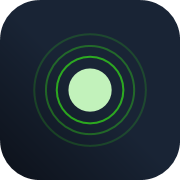
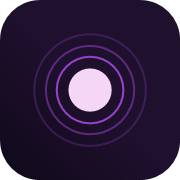
Add files via upload

diff --git a/styles.css b/styles.css
@@ -1,8 +1,157 @@
 @import url('https://fonts.googleapis.com/css2?family=Montserrat:wght@400;500;600;700;800&display=swap');
-:root{font-family:Montserrat,-apple-system,BlinkMacSystemFont,"Segoe UI",sans-serif;color-scheme:dark;--bg:#090b11;--surface:rgba(19,23,34,.89);--surface2:#151a26;--text:#f3f5fa;--muted:#9aa3b5;--line:rgba(255,255,255,.085);--green:#39ff14;--yellow:#ffea19;--red:#ff073a;--blue:#47c8ff;--status:var(--green);--status-rgb:57,255,20;--green-row:#153c2d;--yellow-row:#493f1d;--red-row:#451d29;--shadow:0 18px 48px rgba(0,0,0,.3)}
-*{box-sizing:border-box}html{min-height:100%;background:var(--bg);background-image:radial-gradient(ellipse at 85% 4%,rgba(92,38,118,.24),transparent 40%),radial-gradient(ellipse at 0 50%,rgba(0,116,164,.12),transparent 42%);background-attachment:fixed}body{margin:0;min-height:100vh;padding:calc(env(safe-area-inset-top) + 14px) 14px calc(env(safe-area-inset-bottom) + 24px);color:var(--text);transition:background .25s,color .25s}.app-shell{width:min(100%,560px);margin:auto}.topbar{display:flex;align-items:center;gap:12px;margin:4px 2px 18px}.brand-mark{display:grid;place-items:center;width:42px;height:42px;border:1px solid rgba(71,200,255,.38);border-radius:14px;background:linear-gradient(145deg,rgba(71,200,255,.2),rgba(71,200,255,.03));color:var(--blue);font-size:24px;box-shadow:0 0 22px rgba(71,200,255,.12)}.brand-copy{flex:1}.eyebrow{display:block;font-size:9px;font-weight:700;letter-spacing:.15em;color:var(--muted)}h1{font-size:20px;line-height:1.2;margin:4px 0 0;font-weight:800;letter-spacing:-.03em}.icon-button{width:42px;height:42px;border:1px solid var(--line);border-radius:14px;background:var(--surface);color:var(--text);font-family:inherit;font-size:26px;line-height:1;cursor:pointer}.icon-button:active{transform:scale(.95)}.panel{border:1px solid var(--line);border-radius:22px;background:var(--surface);box-shadow:var(--shadow);backdrop-filter:blur(18px);-webkit-backdrop-filter:blur(18px)}.queue-card{display:flex;justify-content:space-between;align-items:center;padding:15px 16px;margin-bottom:12px}.queue-help{margin:5px 0 0;color:var(--muted);font-size:11px}.select-wrap{position:relative;min-width:132px}.select-wrap select{width:100%;appearance:none;border:1px solid rgba(71,200,255,.35);border-radius:13px;padding:12px 34px 12px 13px;background:#18202d;color:var(--text);font:700 14px Montserrat,sans-serif;outline:none}.select-chevron{position:absolute;right:12px;top:50%;transform:translateY(-60%);color:var(--blue);pointer-events:none}.status-card{position:relative;overflow:hidden;padding:17px 18px 15px;text-align:center;min-height:360px}.status-card:before{content:"";position:absolute;inset:-80px -30px auto;height:260px;pointer-events:none;background:radial-gradient(ellipse,rgba(var(--status-rgb),.13),transparent 67%);transition:background .4s}.status-topline{position:relative;z-index:1;display:flex;justify-content:space-between;align-items:center}.status-pill,.live-badge{display:inline-flex;align-items:center;gap:7px;border:1px solid var(--line);border-radius:99px;padding:7px 10px;font-size:9px;letter-spacing:.07em;font-weight:800}.status-pill{color:var(--status);border-color:rgba(var(--status-rgb),.27);background:rgba(var(--status-rgb),.08)}.status-pill i,.live-badge i{width:7px;height:7px;border-radius:50%;background:currentColor;box-shadow:0 0 10px currentColor}.live-badge{color:var(--muted);font-size:8px}.live-badge i{color:var(--green);animation:liveBlink 1.5s infinite}.status-orb{position:relative;width:158px;height:158px;margin:7px auto 0;display:grid;place-items:center;isolation:isolate}.status-orb:before,.status-orb:after{content:"";position:absolute;inset:20px;border:1px solid rgba(var(--status-rgb),.3);border-radius:50%;box-shadow:0 0 28px rgba(var(--status-rgb),.16),inset 0 0 24px rgba(var(--status-rgb),.12);animation:orbPulse 2.6s ease-in-out infinite}.status-orb:after{inset:35px;border-color:rgba(var(--status-rgb),.48);animation-delay:.35s}.orb-core{width:45px;height:45px;border-radius:50%;background:radial-gradient(circle at 34% 28%,#fff 0,rgba(var(--status-rgb),.95) 12%,rgba(var(--status-rgb),.55) 42%,rgba(var(--status-rgb),.08) 72%,transparent 74%);filter:drop-shadow(0 0 8px rgba(var(--status-rgb),.95)) drop-shadow(0 0 25px rgba(var(--status-rgb),.65));animation:corePulse 1.9s ease-in-out infinite}.orbit{position:absolute;border:1px solid rgba(var(--status-rgb),.42);border-radius:50%;transform:rotate(-24deg);animation:orbit 7s linear infinite}.orbit-one{width:134px;height:78px}.orbit-two{width:128px;height:60px;transform:rotate(48deg);animation-duration:9s}.orbit-three{width:91px;height:140px;transform:rotate(74deg);animation-duration:12s}.status-text{position:relative;z-index:1;margin:0 auto 10px;font-size:20px;line-height:1.2;font-weight:800;letter-spacing:.01em;text-shadow:0 2px 14px rgba(var(--status-rgb),.2)}.now-line{display:flex;justify-content:center;align-items:center;gap:11px;font-size:12px;font-weight:600;color:var(--muted)}.now-line b{width:3px;height:3px;background:var(--blue);border-radius:50%;box-shadow:0 0 7px var(--blue)}.next-box{position:relative;z-index:1;margin:16px auto 0;max-width:430px;padding:13px 14px;border:1px solid rgba(var(--status-rgb),.17);border-radius:15px;background:rgba(0,0,0,.16)}.next-box strong{display:block;margin-top:6px;font-size:14px;line-height:1.45;font-weight:700;color:var(--text)}.freshness{position:relative;z-index:1;margin-top:11px;font-size:9px;color:var(--muted)}.freshness.error{color:#ff8797}.freshness.offline{color:#f3c66b}.schedule-card{margin-top:12px;padding:17px 14px 12px}.section-heading{display:flex;align-items:center;justify-content:space-between;margin:0 2px 13px}h2{font-size:17px;letter-spacing:-.02em;margin:4px 0 0}.date-chip{font-size:10px;color:var(--muted);border:1px solid var(--line);border-radius:99px;padding:7px 9px}.schedule-list{display:grid;gap:5px;max-height:none;overflow:visible;padding:1px 2px 5px}.schedule-row{display:grid;grid-template-columns:96px 1fr auto;align-items:center;gap:8px;min-height:39px;padding:7px 10px;border-radius:11px;border:1px solid rgba(255,255,255,.035);font-size:10px;background:var(--surface2);transition:filter .2s,outline-color .2s}.schedule-row.green{background:var(--green-row)}.schedule-row.yellow{background:var(--yellow-row)}.schedule-row.red{background:var(--red-row)}.schedule-row.current{outline:1px solid rgba(71,200,255,.8);box-shadow:0 0 14px rgba(71,200,255,.15);animation:currentGlow 1.8s ease-in-out infinite}.row-time{white-space:nowrap;font-variant-numeric:tabular-nums;color:var(--text)}.row-label{font-weight:700;line-height:1.2}.row-dot{width:7px;height:7px;border-radius:50%;background:var(--status);box-shadow:0 0 7px currentColor}.schedule-row.green .row-dot{background:var(--green)}.schedule-row.yellow .row-dot{background:var(--yellow)}.schedule-row.red .row-dot{background:var(--red)}.loading-row,.empty-row{padding:25px 10px;text-align:center;color:var(--muted);font-size:12px}.schedule-note{font-size:10px;color:var(--muted);margin:8px 3px 0}.settings-card{margin-top:12px;padding:15px;display:grid;gap:13px}.settings-card h2{font-size:14px}.theme-switch{display:grid;grid-template-columns:repeat(3,1fr);gap:5px;padding:4px;border-radius:13px;background:var(--surface2)}.theme-choice{border:0;border-radius:10px;padding:10px 3px;background:transparent;color:var(--muted);font:600 10px Montserrat,sans-serif}.theme-choice.is-active{background:rgba(71,200,255,.17);color:var(--text);box-shadow:inset 0 0 0 1px rgba(71,200,255,.32)}footer{display:flex;justify-content:space-between;gap:8px;padding:15px 4px 0;color:var(--muted);font-size:9px}.toast{position:fixed;z-index:10;left:50%;bottom:calc(env(safe-area-inset-bottom) + 18px);transform:translate(-50%,18px);opacity:0;pointer-events:none;max-width:calc(100vw - 30px);padding:12px 15px;border-radius:13px;background:#242b39;color:var(--text);font-size:11px;box-shadow:var(--shadow);transition:.25s}.toast.show{opacity:1;transform:translate(-50%,0)}.sr-only{position:absolute;width:1px;height:1px;overflow:hidden;clip:rect(0,0,0,0);white-space:nowrap}
-@keyframes orbPulse{0%,100%{transform:scale(.94);opacity:.55}50%{transform:scale(1.08);opacity:1}}@keyframes corePulse{0%,100%{transform:scale(.84);opacity:.8}50%{transform:scale(1.1);opacity:1}}@keyframes orbit{to{transform:rotate(336deg)}}@keyframes currentGlow{50%{box-shadow:0 0 19px rgba(71,200,255,.32)}}@keyframes liveBlink{50%{opacity:.35}}
-html[data-theme="light"]{color-scheme:light;--bg:#eef2f7;--surface:rgba(255,255,255,.88);--surface2:#f1f4f8;--text:#151a24;--muted:#687386;--line:rgba(15,25,40,.1);--green-row:#d9f3e5;--yellow-row:#fff2c3;--red-row:#ffe0e5;--shadow:0 16px 38px rgba(24,40,65,.1)}html[data-theme="light"] .select-wrap select{background:#fff;color:var(--text)}html[data-theme="light"] .next-box{background:rgba(255,255,255,.55)}@media(prefers-color-scheme:light){html[data-theme="system"]{color-scheme:light;--bg:#eef2f7;--surface:rgba(255,255,255,.88);--surface2:#f1f4f8;--text:#151a24;--muted:#687386;--line:rgba(15,25,40,.1);--green-row:#d9f3e5;--yellow-row:#fff2c3;--red-row:#ffe0e5;--shadow:0 16px 38px rgba(24,40,65,.1)}html[data-theme="system"] .select-wrap select{background:#fff;color:var(--text)}html[data-theme="system"] .next-box{background:rgba(255,255,255,.55)}}@media(min-width:560px){body{padding-top:28px}.status-card{padding-top:20px}.schedule-list{max-height:560px}}@media(prefers-reduced-motion:reduce){*,*::before,*::after{animation-duration:.01ms!important;animation-iteration-count:1!important;scroll-behavior:auto!important}}
 
-.icon-button.spinning{animation:spin .8s linear infinite}@keyframes spin{to{transform:rotate(360deg)}}
-.live-badge.offline{color:#ff8797;border-color:rgba(255,7,58,.25)}.live-badge.offline i{color:var(--red);animation:none}
+:root {
+  font-family: Montserrat, -apple-system, BlinkMacSystemFont, "Segoe UI", sans-serif;
+  color-scheme: dark;
+  --bg: #08060e;
+  --surface: rgba(16, 12, 27, .9);
+  --surface2: #130e20;
+  --text: #f7f2ff;
+  --muted: #a69ab9;
+  --line: rgba(187, 119, 255, .17);
+  --blue: #bb58ff;
+  --accent2: #ff2dcf;
+  --green: #39ff14;
+  --yellow: #ffea19;
+  --red: #ff073a;
+  --status: var(--green);
+  --status-rgb: 57,255,20;
+  --green-row: rgba(31, 91, 62, .73);
+  --yellow-row: rgba(102, 76, 20, .68);
+  --red-row: rgba(99, 30, 49, .7);
+  --shadow: 0 20px 54px rgba(0,0,0,.42), 0 0 32px rgba(143,54,255,.08);
+}
+
+* { box-sizing: border-box; }
+html {
+  min-height: 100%; background: var(--bg);
+  background-image: radial-gradient(ellipse at 50% -12%, rgba(117,43,173,.28), transparent 49%),
+    radial-gradient(ellipse at 100% 58%, rgba(94,18,105,.16), transparent 42%),
+    radial-gradient(ellipse at 0 74%, rgba(49,31,109,.18), transparent 40%);
+  background-attachment: fixed;
+}
+html::before {
+  content: ""; position: fixed; inset: 0; z-index: 0; pointer-events: none; opacity: .32;
+  background-image: radial-gradient(1px 1px at 12% 19%, #e6caff 98%, transparent),
+    radial-gradient(1px 1px at 81% 28%, #f5b9ff 98%, transparent),
+    radial-gradient(1px 1px at 63% 74%, #b9a4ff 98%, transparent),
+    radial-gradient(1px 1px at 28% 84%, #fff 98%, transparent),
+    radial-gradient(1px 1px at 94% 91%, #d1a8ff 98%, transparent);
+}
+body { position: relative; z-index: 1; margin: 0; min-height: 100vh; padding: calc(env(safe-area-inset-top) + 14px) 14px calc(env(safe-area-inset-bottom) + 24px); color: var(--text); transition: color .25s; }
+button, input, select { font: inherit; }
+.app-shell { width: min(100%, 560px); margin: auto; }
+.topbar { display: flex; align-items: center; gap: 12px; margin: 4px 2px 18px; }
+.brand-mark { display: grid; place-items: center; width: 43px; height: 43px; border: 1px solid rgba(191,108,255,.52); border-radius: 15px; background: linear-gradient(145deg,rgba(174,77,255,.24),rgba(44,18,67,.22)); color: #e6a8ff; font-size: 24px; box-shadow: 0 0 24px rgba(180,70,255,.2), inset 0 0 15px rgba(255,45,207,.08); }
+.brand-copy { flex: 1; }
+.eyebrow { display: block; color: var(--muted); font-size: 9px; font-weight: 700; letter-spacing: .15em; }
+h1 { margin: 4px 0 0; font-size: 20px; line-height: 1.2; font-weight: 800; letter-spacing: -.035em; }
+.icon-button { width: 43px; height: 43px; border: 1px solid rgba(187,119,255,.25); border-radius: 15px; background: linear-gradient(145deg,rgba(29,20,45,.94),rgba(14,10,23,.96)); color: #f0d2ff; font-family: inherit; font-size: 25px; line-height: 1; cursor: pointer; box-shadow: inset 0 0 14px rgba(169,70,255,.08); }
+.icon-button:active { transform: scale(.95); }
+.icon-button.spinning { animation: spin .8s linear infinite; }
+
+.panel { border: 1px solid var(--line); border-radius: 22px; background: linear-gradient(145deg,rgba(22,16,36,.94),rgba(12,10,20,.94)); box-shadow: var(--shadow), inset 0 1px rgba(255,255,255,.025); backdrop-filter: blur(18px); -webkit-backdrop-filter: blur(18px); }
+.queue-card { display: flex; justify-content: space-between; align-items: center; gap: 12px; padding: 15px 16px; margin-bottom: 12px; }
+.queue-help { margin: 5px 0 0; color: var(--muted); font-size: 11px; }
+.select-wrap { position: relative; min-width: 132px; }
+.select-wrap select { width: 100%; appearance: none; border: 1px solid rgba(180,91,255,.48); border-radius: 13px; padding: 12px 34px 12px 13px; background: linear-gradient(135deg,#211431,#171024); color: var(--text); font: 700 13px Montserrat,sans-serif; outline: none; box-shadow: 0 0 15px rgba(175,64,255,.07); }
+.select-chevron { position: absolute; right: 12px; top: 50%; transform: translateY(-60%); color: #d993ff; pointer-events: none; }
+
+.status-card { position: relative; overflow: hidden; min-height: 365px; padding: 17px 18px 15px; text-align: center; isolation: isolate; }
+.status-card::before { content: ""; position: absolute; z-index: -1; inset: -75px -35px auto; height: 280px; pointer-events: none; background: radial-gradient(ellipse,rgba(var(--status-rgb),.11),rgba(157,49,255,.08) 31%,transparent 70%); transition: background .45s; }
+.status-card::after { content: ""; position: absolute; z-index: -1; inset: 0; border-radius: inherit; pointer-events: none; background: linear-gradient(120deg,rgba(221,173,255,.035),transparent 35%,rgba(255,45,207,.035)); }
+.status-topline { position: relative; z-index: 2; display: flex; justify-content: space-between; align-items: center; }
+.status-pill, .live-badge { display: inline-flex; align-items: center; gap: 7px; border: 1px solid var(--line); border-radius: 99px; padding: 7px 10px; font-size: 9px; letter-spacing: .07em; font-weight: 800; }
+.status-pill { color: var(--status); border-color: rgba(var(--status-rgb),.3); background: rgba(var(--status-rgb),.07); box-shadow: 0 0 17px rgba(var(--status-rgb),.07); }
+.status-pill i, .live-badge i { width: 7px; height: 7px; border-radius: 50%; background: currentColor; box-shadow: 0 0 10px currentColor; }
+.live-badge { color: var(--muted); font-size: 8px; }
+.live-badge i { color: var(--green); animation: liveBlink 1.5s infinite; }
+.live-badge.offline { color: #ff8797; border-color: rgba(255,7,58,.25); }
+.live-badge.offline i { color: var(--red); animation: none; }
+.status-orb { position: relative; display: grid; place-items: center; width: 166px; height: 166px; margin: 5px auto 0; isolation: isolate; }
+.status-orb::before, .status-orb::after { content: ""; position: absolute; border: 1px solid rgba(var(--status-rgb),.34); border-radius: 50%; box-shadow: 0 0 29px rgba(var(--status-rgb),.17), inset 0 0 25px rgba(var(--status-rgb),.12), 0 0 36px rgba(189,68,255,.08); animation: orbPulse 2.7s ease-in-out infinite; }
+.status-orb::before { inset: 18px; }
+.status-orb::after { inset: 34px; border-color: rgba(var(--status-rgb),.52); animation-delay: .35s; }
+.orb-core { width: 48px; height: 48px; border-radius: 50%; background: radial-gradient(circle at 34% 27%,#fff 0,rgba(var(--status-rgb),.98) 12%,rgba(var(--status-rgb),.58) 42%,rgba(var(--status-rgb),.09) 73%,transparent 75%); filter: drop-shadow(0 0 9px rgba(var(--status-rgb),.98)) drop-shadow(0 0 28px rgba(var(--status-rgb),.68)); animation: corePulse 1.9s ease-in-out infinite; }
+.orbit { position: absolute; border: 1px solid rgba(var(--status-rgb),.48); border-radius: 50%; box-shadow: 0 0 9px rgba(var(--status-rgb),.12); animation: orbit 7s linear infinite; }
+.orbit-one { width: 142px; height: 77px; transform: rotate(-24deg); }
+.orbit-two { width: 132px; height: 60px; transform: rotate(48deg); animation-duration: 9s; border-color: rgba(204,102,255,.43); }
+.orbit-three { width: 94px; height: 146px; transform: rotate(74deg); animation-duration: 12s; border-color: rgba(var(--status-rgb),.29); }
+.status-text { position: relative; z-index: 1; margin: 0 auto 10px; font-size: 19px; line-height: 1.25; font-weight: 800; letter-spacing: .025em; text-transform: uppercase; text-shadow: 0 2px 17px rgba(var(--status-rgb),.19); }
+.now-line { display: flex; justify-content: center; align-items: center; gap: 11px; color: var(--muted); font-size: 12px; font-weight: 600; font-variant-numeric: tabular-nums; }
+.now-line b { width: 3px; height: 3px; border-radius: 50%; background: #e589ff; box-shadow: 0 0 8px #d957ff; }
+.next-box { position: relative; z-index: 1; max-width: 430px; margin: 16px auto 0; padding: 13px 14px; border: 1px solid rgba(178,92,255,.22); border-radius: 15px; background: linear-gradient(125deg,rgba(16,11,28,.72),rgba(29,13,40,.48)); box-shadow: inset 0 0 22px rgba(143,54,255,.045); }
+.next-box strong { display: block; margin-top: 6px; color: var(--text); font-size: 14px; line-height: 1.45; font-weight: 700; }
+.freshness { position: relative; z-index: 1; margin-top: 11px; color: var(--muted); font-size: 9px; }
+.freshness.error { color: #ff8797; }
+.freshness.offline { color: #f0bf70; }
+
+.schedule-card { margin-top: 12px; padding: 17px 14px 12px; }
+.section-heading { display: flex; justify-content: space-between; align-items: center; margin: 0 2px 13px; }
+h2 { margin: 4px 0 0; font-size: 17px; letter-spacing: -.02em; }
+.date-chip { padding: 7px 9px; border: 1px solid rgba(184,114,255,.18); border-radius: 99px; color: var(--muted); font-size: 10px; background: rgba(152,70,225,.06); }
+.schedule-list { display: grid; gap: 6px; max-height: none; overflow: visible; padding: 1px 2px 5px; }
+.schedule-row { display: grid; grid-template-columns: 96px 1fr auto; align-items: center; gap: 8px; min-height: 40px; padding: 7px 10px; border: 1px solid rgba(255,255,255,.035); border-radius: 12px; background: linear-gradient(110deg,rgba(25,18,39,.9),rgba(18,15,27,.9)); font-size: 10px; transition: filter .2s, box-shadow .2s, outline-color .2s; }
+.schedule-row.green { background: linear-gradient(110deg,var(--green-row),rgba(20,36,34,.8)); }
+.schedule-row.yellow { background: linear-gradient(110deg,var(--yellow-row),rgba(41,29,31,.78)); }
+.schedule-row.red { background: linear-gradient(110deg,var(--red-row),rgba(41,18,36,.82)); }
+.schedule-row.current { outline: 1px solid rgba(206,106,255,.86); box-shadow: 0 0 17px rgba(181,63,255,.23), inset 0 0 14px rgba(205,77,255,.08); animation: currentGlow 1.8s ease-in-out infinite; }
+.row-time { color: var(--text); white-space: nowrap; font-variant-numeric: tabular-nums; }
+.row-label { font-weight: 700; line-height: 1.2; }
+.row-dot { width: 7px; height: 7px; border-radius: 50%; background: var(--status); box-shadow: 0 0 8px currentColor; }
+.schedule-row.green .row-dot { background: var(--green); }
+.schedule-row.yellow .row-dot { background: var(--yellow); }
+.schedule-row.red .row-dot { background: var(--red); }
+.loading-row, .empty-row { padding: 25px 10px; color: var(--muted); text-align: center; font-size: 12px; }
+.schedule-note { margin: 8px 3px 0; color: var(--muted); font-size: 10px; }
+
+.settings-card { display: grid; gap: 13px; margin-top: 12px; padding: 15px; }
+.settings-card h2 { font-size: 14px; }
+.theme-switch { display: grid; grid-template-columns: repeat(3,1fr); gap: 5px; padding: 4px; border: 1px solid rgba(183,104,255,.11); border-radius: 13px; background: rgba(10,8,17,.72); }
+.theme-choice { padding: 10px 3px; border: 0; border-radius: 10px; background: transparent; color: var(--muted); font: 600 10px Montserrat,sans-serif; }
+.theme-choice.is-active { background: linear-gradient(100deg,rgba(144,58,222,.38),rgba(221,39,203,.2)); color: var(--text); box-shadow: inset 0 0 0 1px rgba(202,112,255,.38),0 0 15px rgba(177,62,255,.1); }
+.source-card { margin-top: 12px; padding: 14px 15px; }
+.source-card details > summary { cursor: pointer; list-style: none; font-size: 12px; font-weight: 700; }
+.source-card details > summary::-webkit-details-marker { display: none; }
+.source-card details > summary::after { content: '＋'; float: right; color: #d58cff; }
+.source-card details[open] > summary::after { content: '−'; }
+.source-card p { margin: 12px 0; color: var(--muted); font-size: 10px; line-height: 1.55; }
+.source-label { display: block; margin: 10px 0 6px; color: var(--muted); font-size: 10px; font-weight: 700; }
+.source-row { display: flex; gap: 7px; }
+.source-row input { min-width: 0; flex: 1; padding: 11px; border: 1px solid rgba(185,107,255,.2); border-radius: 11px; background: var(--surface2); color: var(--text); font: 10px Montserrat,sans-serif; }
+.source-row button { padding: 0 12px; border: 0; border-radius: 11px; background: linear-gradient(100deg,#a53dff,#e82dcc); color: #fff; font: 700 10px Montserrat,sans-serif; box-shadow: 0 0 15px rgba(202,47,230,.18); }
+.source-card small { display: block; margin-top: 7px; color: var(--muted); font-size: 9px; }
+footer { display: flex; justify-content: space-between; gap: 8px; padding: 15px 4px 0; color: var(--muted); font-size: 9px; }
+.toast { position: fixed; z-index: 10; left: 50%; bottom: calc(env(safe-area-inset-bottom) + 18px); max-width: calc(100vw - 30px); padding: 12px 15px; border: 1px solid rgba(197,105,255,.22); border-radius: 13px; background: #1c1328; color: var(--text); font-size: 11px; box-shadow: var(--shadow); opacity: 0; pointer-events: none; transform: translate(-50%,18px); transition: .25s; }
+.toast.show { opacity: 1; transform: translate(-50%,0); }
+.sr-only { position: absolute; width: 1px; height: 1px; overflow: hidden; clip: rect(0,0,0,0); white-space: nowrap; }
+
+@keyframes orbPulse { 0%,100% { transform: scale(.94); opacity: .55; } 50% { transform: scale(1.08); opacity: 1; } }
+@keyframes corePulse { 0%,100% { transform: scale(.84); opacity: .8; } 50% { transform: scale(1.1); opacity: 1; } }
+@keyframes orbit { to { transform: rotate(336deg); } }
+@keyframes currentGlow { 50% { box-shadow: 0 0 20px rgba(205,90,255,.32),inset 0 0 14px rgba(205,77,255,.1); } }
+@keyframes liveBlink { 50% { opacity: .35; } }
+@keyframes spin { to { transform: rotate(360deg); } }
+
+html[data-theme="light"] {
+  color-scheme: light; --bg: #f4eef9; --surface: rgba(255,251,255,.92); --surface2: #f7effb;
+  --text: #21152d; --muted: #766786; --line: rgba(131,65,166,.16);
+  --green-row: rgba(194,239,211,.9); --yellow-row: rgba(255,237,183,.94); --red-row: rgba(255,205,217,.9);
+  --shadow: 0 16px 38px rgba(61,29,83,.12),0 0 20px rgba(172,73,238,.06);
+}
+html[data-theme="light"] .panel { background: linear-gradient(145deg,rgba(255,252,255,.96),rgba(246,237,251,.96)); }
+html[data-theme="light"] .select-wrap select { background: #fff9ff; color: var(--text); }
+html[data-theme="light"] .next-box { background: linear-gradient(125deg,rgba(255,255,255,.84),rgba(248,232,255,.72)); }
+html[data-theme="light"] .theme-switch { background: rgba(235,220,246,.75); }
+html[data-theme="light"] .schedule-row.green { background: linear-gradient(110deg,var(--green-row),#e6f8ed); }
+html[data-theme="light"] .schedule-row.yellow { background: linear-gradient(110deg,var(--yellow-row),#fff8df); }
+html[data-theme="light"] .schedule-row.red { background: linear-gradient(110deg,var(--red-row),#fff0f3); }
+@media (prefers-color-scheme: light) {
+  html[data-theme="system"] { color-scheme: light; --bg:#f4eef9; --surface:rgba(255,251,255,.92); --surface2:#f7effb; --text:#21152d; --muted:#766786; --line:rgba(131,65,166,.16); --green-row:rgba(194,239,211,.9); --yellow-row:rgba(255,237,183,.94); --red-row:rgba(255,205,217,.9); --shadow:0 16px 38px rgba(61,29,83,.12),0 0 20px rgba(172,73,238,.06); }
+  html[data-theme="system"] .panel { background:linear-gradient(145deg,rgba(255,252,255,.96),rgba(246,237,251,.96)); }
+  html[data-theme="system"] .select-wrap select { background:#fff9ff;color:var(--text); }
+  html[data-theme="system"] .next-box { background:linear-gradient(125deg,rgba(255,255,255,.84),rgba(248,232,255,.72)); }
+  html[data-theme="system"] .theme-switch { background:rgba(235,220,246,.75); }
+}
+@media (min-width:560px) { body { padding-top:28px; } .status-card { padding-top:20px; } }
+@media (prefers-reduced-motion:reduce) { *,*::before,*::after { animation-duration:.01ms!important; animation-iteration-count:1!important; scroll-behavior:auto!important; } }

diff --git a/index.html b/index.html
@@ -3,7 +3,7 @@
 <head>
   <meta charset="utf-8">
   <meta name="viewport" content="width=device-width, initial-scale=1, viewport-fit=cover">
-  <meta name="theme-color" content="#10131c">
+  <meta name="theme-color" content="#090714">
   <meta name="apple-mobile-web-app-capable" content="yes">
   <meta name="apple-mobile-web-app-status-bar-style" content="black-translucent">
   <meta name="apple-mobile-web-app-title" content="Свет Нико">
